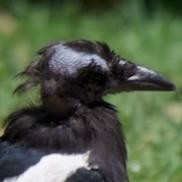
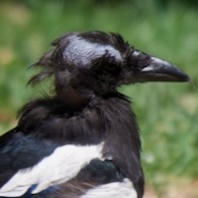
wip

diff --git a/beaker/src/onnx_session.rs b/beaker/src/onnx_session.rs
@@ -105,28 +105,20 @@ pub struct DeviceSelection {
 }
 
 /// Determine optimal device based on user preference
-pub fn determine_optimal_device(requested_device: &str, tool_name: &str) -> DeviceSelection {
+pub fn determine_optimal_device(requested_device: &str, _tool_name: &str) -> DeviceSelection {
     match requested_device {
         "auto" => {
-            match tool_name {
-                "detect" => DeviceSelection {
-                    device: "cpu".to_string(),
-                    reason: "Multi-detect does not work on CoreML currently".to_string(),
+            // For auto, prefer CoreML if available, otherwise CPU
+            let coreml = CoreMLExecutionProvider::default();
+            match coreml.is_available() {
+                Ok(true) => DeviceSelection {
+                    device: "coreml".to_string(),
+                    reason: "Auto-selected CoreML (available)".to_string(),
                 },
-                _other_tool => {
-                    // For auto, prefer CoreML if available, otherwise CPU
-                    let coreml = CoreMLExecutionProvider::default();
-                    match coreml.is_available() {
-                        Ok(true) => DeviceSelection {
-                            device: "coreml".to_string(),
-                            reason: "Auto-selected CoreML (available)".to_string(),
-                        },
-                        _ => DeviceSelection {
-                            device: "cpu".to_string(),
-                            reason: "Auto-selected CPU (CoreML not available)".to_string(),
-                        },
-                    }
-                }
+                _ => DeviceSelection {
+                    device: "cpu".to_string(),
+                    reason: "Auto-selected CPU (CoreML not available)".to_string(),
+                },
             }
         }
         other => DeviceSelection {

diff --git a/beaker/src/detection.rs b/beaker/src/detection.rs
@@ -218,7 +218,7 @@ fn handle_image_outputs_with_timing(
 
             // Time the crop creation and save
             io_timing
-                .time_save_operation(|| create_square_crop(img, detection, &crop_filename, 0.1))?;
+                .time_save_operation(|| create_square_crop(img, detection, &crop_filename, 0.0))?;
 
             debug!(
                 "{} Crop saved to: {}",

diff --git a/beaker/line_counts.md b/beaker/line_counts.md
@@ -2,6 +2,6 @@
 
 - **Cutout Main Code**: 387 (Tests: 103)  
 - **Head Main Code**: 463 (Tests: 0)  
-- **Common Main Code**: 3737 (Tests: 2564)  
-- **Total Main Code**: 4587 (Reported: 4587)  
+- **Common Main Code**: 3729 (Tests: 2564)  
+- **Total Main Code**: 4579 (Reported: 4579)  
 ✅ Totals match.

diff --git a/README.md b/README.md
@@ -64,7 +64,7 @@ can be processed with
 beaker detect --crop=head example.jpg
 ```
 
-yielding the output crop saved as `example_crop_head.jpg` (with 25% padding around the detected head)
+yielding the output crop saved as `example_crop_head.jpg`:
 
 ![](./example_crop_head.jpg)
 
